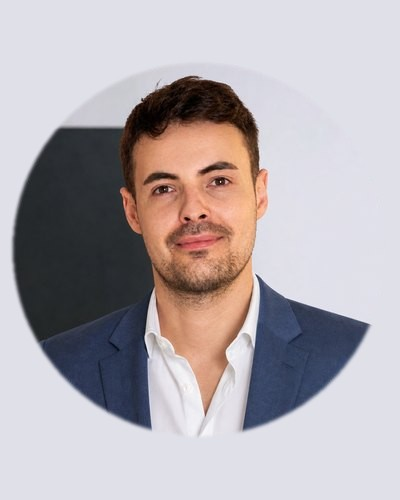
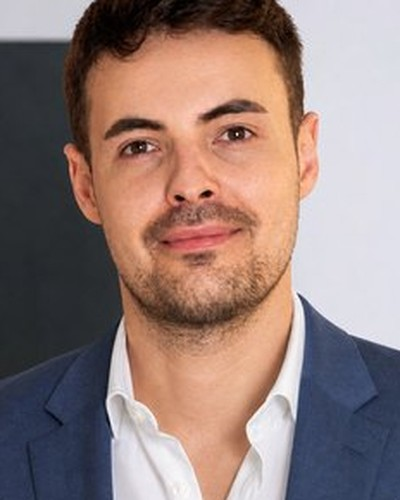
Porte 3 : plus de contour au retour du hall ; photo cadrée pleine vitre, sans cercle

diff --git a/ar/index.html b/ar/index.html
@@ -15,7 +15,7 @@
 <link rel="alternate" hreflang="ar" href="https://erjb-web.github.io/ar/">
 <link rel="alternate" hreflang="x-default" href="https://erjb-web.github.io/">
 <link rel="icon" href="../assets/favicon.svg" type="image/svg+xml">
-<link rel="stylesheet" href="../assets/site.css?v=1980aaa260">
+<link rel="stylesheet" href="../assets/site.css?v=1a9c90b006">
 <meta property="og:type" content="profile">
 <meta property="og:title" content="Éric Bernier">
 <meta property="og:description" content="Éric Bernier، طالب دكتوراه في الصحة العامة (الأنظمة والمنظمات والسياسات الصحية) في ESPUM، وقانوني ورائد أعمال ومربٍّ متخصص. يتناول بحثه الاستجابة المشتركة بين القطاعات للاحتياجات الاجتماعية المعقدة في الرعاية الصحية الأولية.">
@@ -72,7 +72,7 @@
 <span class="baie" aria-hidden="true"><span class="ouverture"><span class="apercu">دخول</span><span class="battant"><span class="vignette" style="background-image:url(../assets/portes/expertise.jpg?v=eb3de103a6)"></span><span class="poignee"></span></span></span></span>
 <span class="porte-texte" aria-hidden="true"><span class="plaque"><span class="num">02</span>نقل المعارف والتنفيذ</span><span class="legende">التنفيذ والمفاهيم الأساسية والتدريس والتبسيط العلمي والأدوات الرقمية</span><span class="sous-portes"><span data-sous="implantation" style="--c1:#a0663b">التنفيذ</span><span data-sous="notions" style="--c1:#7a4f9a">مفاهيم أساسية</span><span data-sous="transmission" style="--c1:#5f7f35">التدريس والتبسيط</span><span data-sous="outils" style="--c1:#2f3f7a">الأدوات الرقمية</span></span><span class="entrer">دخول ←</span></span>
 </button><button class="porte" type="button" data-salle="parcours" data-sections="biographie parcours valeurs" data-titre="المسار" style="--c1:#7a4a8c;--c2:#553263" aria-label="03. المسار: السيرة والخبرات والقيم">
-<span class="baie" aria-hidden="true"><span class="ouverture"><span class="apercu">دخول</span><span class="battant"><span class="vignette" style="background-image:url(../assets/portes/biographie.jpg?v=c65e9c255b)"></span><span class="poignee"></span></span></span></span>
+<span class="baie" aria-hidden="true"><span class="ouverture"><span class="apercu">دخول</span><span class="battant"><span class="vignette" style="background-image:url(../assets/portes/biographie.jpg?v=76230af68d)"></span><span class="poignee"></span></span></span></span>
 <span class="porte-texte" aria-hidden="true"><span class="plaque"><span class="num">03</span>المسار</span><span class="legende">السيرة والخبرات والقيم</span><span class="sous-portes"><span data-sous="biographie" style="--c1:#2f6f86">السيرة</span><span data-sous="parcours" style="--c1:#9a7448">المسار</span><span data-sous="valeurs" style="--c1:#7a5a8c">القيم</span></span><span class="entrer">دخول ←</span></span>
 </button><button class="porte" type="button" data-salle="engagements" data-sections="representation communaute distinctions citoyen loisirs" data-titre="الانخراط" style="--c1:#a8343f;--c2:#76232b" aria-label="04. الانخراط: التمثيل، البحث، الجوائز، الترفيه">
 <span class="baie" aria-hidden="true"><span class="ouverture"><span class="apercu">دخول</span><span class="battant"><span class="vignette" style="background-image:url(../assets/portes/engagements.jpg?v=071d2e7732)"></span><span class="poignee"></span></span></span></span>
@@ -326,7 +326,7 @@
 </div>
 </section>
 <section class="section" id="biographie" data-salle="biographie" data-titre="السيرة">
-<div class="section-contenu" data-numero="03.1" data-mini="../assets/portes-mini/biographie.jpg?v=058f9e50bf">
+<div class="section-contenu" data-numero="03.1" data-mini="../assets/portes-mini/biographie.jpg?v=0296b29590">
 <div class="bandeau" style="--c1:#2f6f86;background-image:var(--degrade),url(../assets/bandeaux/biographie.jpg?v=3baa45be25)" role="img" aria-label="السيرة"><div class="bandeau-texte"><span class="bandeau-num">03.1</span><span class="bandeau-titre">السيرة</span><span class="bandeau-legende">من التجارب الإنسانية إلى التحولات الجماعية</span></div></div>
 <div class="section-corps pleine">
 <div class="colonne-texte">

diff --git a/es/index.html b/es/index.html
@@ -15,7 +15,7 @@
 <link rel="alternate" hreflang="ar" href="https://erjb-web.github.io/ar/">
 <link rel="alternate" hreflang="x-default" href="https://erjb-web.github.io/">
 <link rel="icon" href="../assets/favicon.svg" type="image/svg+xml">
-<link rel="stylesheet" href="../assets/site.css?v=1980aaa260">
+<link rel="stylesheet" href="../assets/site.css?v=1a9c90b006">
 <meta property="og:type" content="profile">
 <meta property="og:title" content="Éric Bernier">
 <meta property="og:description" content="Éric Bernier, doctorando en salud pública (sistemas, organizaciones y políticas de salud) en la ESPUM, Université de Montréal, jurista, emprendedor y educador especializado. Investigación sobre la respuesta intersectorial a las necesidades sociales complejas en atención primaria.">
@@ -72,7 +72,7 @@
 <span class="baie" aria-hidden="true"><span class="ouverture"><span class="apercu">Entrar</span><span class="battant"><span class="vignette" style="background-image:url(../assets/portes/expertise.jpg?v=eb3de103a6)"></span><span class="poignee"></span></span></span></span>
 <span class="porte-texte" aria-hidden="true"><span class="plaque"><span class="num">02</span>Transferencia de conocimientos e implementación</span><span class="legende">Implementación, nociones clave, docencia, divulgación y herramientas digitales</span><span class="sous-portes"><span data-sous="implantation" style="--c1:#a0663b">Implementación</span><span data-sous="notions" style="--c1:#7a4f9a">Nociones clave</span><span data-sous="transmission" style="--c1:#5f7f35">Enseñar y divulgar</span><span data-sous="outils" style="--c1:#2f3f7a">Herramientas digitales</span></span><span class="entrer">Entrar →</span></span>
 </button><button class="porte" type="button" data-salle="parcours" data-sections="biographie parcours valeurs" data-titre="Trayectoria" style="--c1:#7a4a8c;--c2:#553263" aria-label="03. Trayectoria: Biografía, experiencia y valores">
-<span class="baie" aria-hidden="true"><span class="ouverture"><span class="apercu">Entrar</span><span class="battant"><span class="vignette" style="background-image:url(../assets/portes/biographie.jpg?v=c65e9c255b)"></span><span class="poignee"></span></span></span></span>
+<span class="baie" aria-hidden="true"><span class="ouverture"><span class="apercu">Entrar</span><span class="battant"><span class="vignette" style="background-image:url(../assets/portes/biographie.jpg?v=76230af68d)"></span><span class="poignee"></span></span></span></span>
 <span class="porte-texte" aria-hidden="true"><span class="plaque"><span class="num">03</span>Trayectoria</span><span class="legende">Biografía, experiencia y valores</span><span class="sous-portes"><span data-sous="biographie" style="--c1:#2f6f86">Biografía</span><span data-sous="parcours" style="--c1:#9a7448">La trayectoria</span><span data-sous="valeurs" style="--c1:#7a5a8c">Valores</span></span><span class="entrer">Entrar →</span></span>
 </button><button class="porte" type="button" data-salle="engagements" data-sections="representation communaute distinctions citoyen loisirs" data-titre="Compromisos" style="--c1:#a8343f;--c2:#76232b" aria-label="04. Compromisos: Representación, investigación, distinciones, ocio">
 <span class="baie" aria-hidden="true"><span class="ouverture"><span class="apercu">Entrar</span><span class="battant"><span class="vignette" style="background-image:url(../assets/portes/engagements.jpg?v=071d2e7732)"></span><span class="poignee"></span></span></span></span>
@@ -326,7 +326,7 @@
 </div>
 </section>
 <section class="section" id="biographie" data-salle="biographie" data-titre="Biografía">
-<div class="section-contenu" data-numero="03.1" data-mini="../assets/portes-mini/biographie.jpg?v=058f9e50bf">
+<div class="section-contenu" data-numero="03.1" data-mini="../assets/portes-mini/biographie.jpg?v=0296b29590">
 <div class="bandeau" style="--c1:#2f6f86;background-image:var(--degrade),url(../assets/bandeaux/biographie.jpg?v=3baa45be25)" role="img" aria-label="Biografía"><div class="bandeau-texte"><span class="bandeau-num">03.1</span><span class="bandeau-titre">Biografía</span><span class="bandeau-legende">De las experiencias humanas a las transformaciones colectivas</span></div></div>
 <div class="section-corps pleine">
 <div class="colonne-texte">

diff --git a/index.html b/index.html
@@ -15,7 +15,7 @@
 <link rel="alternate" hreflang="ar" href="https://erjb-web.github.io/ar/">
 <link rel="alternate" hreflang="x-default" href="https://erjb-web.github.io/">
 <link rel="icon" href="assets/favicon.svg" type="image/svg+xml">
-<link rel="stylesheet" href="assets/site.css?v=1980aaa260">
+<link rel="stylesheet" href="assets/site.css?v=1a9c90b006">
 <meta property="og:type" content="profile">
 <meta property="og:title" content="Éric Bernier">
 <meta property="og:description" content="Éric Bernier, doctorant en santé publique (systèmes, organisations et politiques de santé) à l’ESPUM, juriste, entrepreneur et éducateur spécialisé. Recherche sur la réponse intersectorielle aux besoins sociaux complexes en soins primaires.">
@@ -72,7 +72,7 @@
 <span class="baie" aria-hidden="true"><span class="ouverture"><span class="apercu">Entrer</span><span class="battant"><span class="vignette" style="background-image:url(assets/portes/expertise.jpg?v=eb3de103a6)"></span><span class="poignee"></span></span></span></span>
 <span class="porte-texte" aria-hidden="true"><span class="plaque"><span class="num">02</span>Transfert de connaissances et implantation</span><span class="legende">Implantation, notions clés, enseignement, vulgarisation et outils numériques</span><span class="sous-portes"><span data-sous="implantation" style="--c1:#a0663b">Implantation</span><span data-sous="notions" style="--c1:#7a4f9a">Notions clés</span><span data-sous="transmission" style="--c1:#5f7f35">Enseigner et vulgariser</span><span data-sous="outils" style="--c1:#2f3f7a">Outils numériques</span></span><span class="entrer">Entrer →</span></span>
 </button><button class="porte" type="button" data-salle="parcours" data-sections="biographie parcours valeurs" data-titre="Parcours" style="--c1:#7a4a8c;--c2:#553263" aria-label="03. Parcours : Biographie, expériences et valeurs">
-<span class="baie" aria-hidden="true"><span class="ouverture"><span class="apercu">Entrer</span><span class="battant"><span class="vignette" style="background-image:url(assets/portes/biographie.jpg?v=c65e9c255b)"></span><span class="poignee"></span></span></span></span>
+<span class="baie" aria-hidden="true"><span class="ouverture"><span class="apercu">Entrer</span><span class="battant"><span class="vignette" style="background-image:url(assets/portes/biographie.jpg?v=76230af68d)"></span><span class="poignee"></span></span></span></span>
 <span class="porte-texte" aria-hidden="true"><span class="plaque"><span class="num">03</span>Parcours</span><span class="legende">Biographie, expériences et valeurs</span><span class="sous-portes"><span data-sous="biographie" style="--c1:#2f6f86">Biographie</span><span data-sous="parcours" style="--c1:#9a7448">Le parcours</span><span data-sous="valeurs" style="--c1:#7a5a8c">Valeurs</span></span><span class="entrer">Entrer →</span></span>
 </button><button class="porte" type="button" data-salle="engagements" data-sections="representation communaute distinctions citoyen loisirs" data-titre="Engagements" style="--c1:#a8343f;--c2:#76232b" aria-label="04. Engagements : Représentation, recherche, distinctions, loisirs">
 <span class="baie" aria-hidden="true"><span class="ouverture"><span class="apercu">Entrer</span><span class="battant"><span class="vignette" style="background-image:url(assets/portes/engagements.jpg?v=071d2e7732)"></span><span class="poignee"></span></span></span></span>
@@ -326,7 +326,7 @@
 </div>
 </section>
 <section class="section" id="biographie" data-salle="biographie" data-titre="Biographie">
-<div class="section-contenu" data-numero="03.1" data-mini="assets/portes-mini/biographie.jpg?v=058f9e50bf">
+<div class="section-contenu" data-numero="03.1" data-mini="assets/portes-mini/biographie.jpg?v=0296b29590">
 <div class="bandeau" style="--c1:#2f6f86;background-image:var(--degrade),url(assets/bandeaux/biographie.jpg?v=3baa45be25)" role="img" aria-label="Biographie"><div class="bandeau-texte"><span class="bandeau-num">03.1</span><span class="bandeau-titre">Biographie</span><span class="bandeau-legende">Des expériences humaines aux transformations collectives</span></div></div>
 <div class="section-corps pleine">
 <div class="colonne-texte">

diff --git a/en/index.html b/en/index.html
@@ -15,7 +15,7 @@
 <link rel="alternate" hreflang="ar" href="https://erjb-web.github.io/ar/">
 <link rel="alternate" hreflang="x-default" href="https://erjb-web.github.io/">
 <link rel="icon" href="../assets/favicon.svg" type="image/svg+xml">
-<link rel="stylesheet" href="../assets/site.css?v=1980aaa260">
+<link rel="stylesheet" href="../assets/site.css?v=1a9c90b006">
 <meta property="og:type" content="profile">
 <meta property="og:title" content="Éric Bernier">
 <meta property="og:description" content="Éric Bernier, PhD student in public health (health systems, organisations and policy) at ESPUM, Université de Montréal, trained in law and special needs education, and an entrepreneur. Research on intersectoral responses to complex social needs in primary care.">
@@ -72,7 +72,7 @@
 <span class="baie" aria-hidden="true"><span class="ouverture"><span class="apercu">Step in</span><span class="battant"><span class="vignette" style="background-image:url(../assets/portes/expertise.jpg?v=eb3de103a6)"></span><span class="poignee"></span></span></span></span>
 <span class="porte-texte" aria-hidden="true"><span class="plaque"><span class="num">02</span>Knowledge transfer and implementation</span><span class="legende">Implementation, key concepts, teaching, outreach and digital tools</span><span class="sous-portes"><span data-sous="implantation" style="--c1:#a0663b">Implementation</span><span data-sous="notions" style="--c1:#7a4f9a">Key concepts</span><span data-sous="transmission" style="--c1:#5f7f35">Teaching and outreach</span><span data-sous="outils" style="--c1:#2f3f7a">Digital tools</span></span><span class="entrer">Step in →</span></span>
 </button><button class="porte" type="button" data-salle="parcours" data-sections="biographie parcours valeurs" data-titre="Background" style="--c1:#7a4a8c;--c2:#553263" aria-label="03. Background: Biography, experience and values">
-<span class="baie" aria-hidden="true"><span class="ouverture"><span class="apercu">Step in</span><span class="battant"><span class="vignette" style="background-image:url(../assets/portes/biographie.jpg?v=c65e9c255b)"></span><span class="poignee"></span></span></span></span>
+<span class="baie" aria-hidden="true"><span class="ouverture"><span class="apercu">Step in</span><span class="battant"><span class="vignette" style="background-image:url(../assets/portes/biographie.jpg?v=76230af68d)"></span><span class="poignee"></span></span></span></span>
 <span class="porte-texte" aria-hidden="true"><span class="plaque"><span class="num">03</span>Background</span><span class="legende">Biography, experience and values</span><span class="sous-portes"><span data-sous="biographie" style="--c1:#2f6f86">Biography</span><span data-sous="parcours" style="--c1:#9a7448">Background</span><span data-sous="valeurs" style="--c1:#7a5a8c">Values</span></span><span class="entrer">Step in →</span></span>
 </button><button class="porte" type="button" data-salle="engagements" data-sections="representation communaute distinctions citoyen loisirs" data-titre="Engagement" style="--c1:#a8343f;--c2:#76232b" aria-label="04. Engagement: Representation, research, awards, leisure">
 <span class="baie" aria-hidden="true"><span class="ouverture"><span class="apercu">Step in</span><span class="battant"><span class="vignette" style="background-image:url(../assets/portes/engagements.jpg?v=071d2e7732)"></span><span class="poignee"></span></span></span></span>
@@ -326,7 +326,7 @@
 </div>
 </section>
 <section class="section" id="biographie" data-salle="biographie" data-titre="Biography">
-<div class="section-contenu" data-numero="03.1" data-mini="../assets/portes-mini/biographie.jpg?v=058f9e50bf">
+<div class="section-contenu" data-numero="03.1" data-mini="../assets/portes-mini/biographie.jpg?v=0296b29590">
 <div class="bandeau" style="--c1:#2f6f86;background-image:var(--degrade),url(../assets/bandeaux/biographie.jpg?v=3baa45be25)" role="img" aria-label="Biography"><div class="bandeau-texte"><span class="bandeau-num">03.1</span><span class="bandeau-titre">Biography</span><span class="bandeau-legende">From human experiences to collective change</span></div></div>
 <div class="section-corps pleine">
 <div class="colonne-texte">

diff --git a/zh/index.html b/zh/index.html
@@ -15,7 +15,7 @@
 <link rel="alternate" hreflang="ar" href="https://erjb-web.github.io/ar/">
 <link rel="alternate" hreflang="x-default" href="https://erjb-web.github.io/">
 <link rel="icon" href="../assets/favicon.svg" type="image/svg+xml">
-<link rel="stylesheet" href="../assets/site.css?v=1980aaa260">
+<link rel="stylesheet" href="../assets/site.css?v=1a9c90b006">
 <meta property="og:type" content="profile">
 <meta property="og:title" content="Éric Bernier">
 <meta property="og:description" content="Éric Bernier，ESPUM（蒙特利尔大学公共卫生学院）公共卫生博士研究生（卫生系统、组织与政策方向），法律专业人士，创业者，特殊教育工作者。研究方向：初级保健中针对复杂社会需求的跨部门应对。">
@@ -72,7 +72,7 @@
 <span class="baie" aria-hidden="true"><span class="ouverture"><span class="apercu">进入</span><span class="battant"><span class="vignette" style="background-image:url(../assets/portes/expertise.jpg?v=eb3de103a6)"></span><span class="poignee"></span></span></span></span>
 <span class="porte-texte" aria-hidden="true"><span class="plaque"><span class="num">02</span>知识转化与实施</span><span class="legende">实施、关键概念、教学、科普与数字工具</span><span class="sous-portes"><span data-sous="implantation" style="--c1:#a0663b">实施</span><span data-sous="notions" style="--c1:#7a4f9a">关键概念</span><span data-sous="transmission" style="--c1:#5f7f35">教学与科普</span><span data-sous="outils" style="--c1:#2f3f7a">数字工具</span></span><span class="entrer">进入 →</span></span>
 </button><button class="porte" type="button" data-salle="parcours" data-sections="biographie parcours valeurs" data-titre="经历" style="--c1:#7a4a8c;--c2:#553263" aria-label="03. 经历： 个人简介、经历与价值观">
-<span class="baie" aria-hidden="true"><span class="ouverture"><span class="apercu">进入</span><span class="battant"><span class="vignette" style="background-image:url(../assets/portes/biographie.jpg?v=c65e9c255b)"></span><span class="poignee"></span></span></span></span>
+<span class="baie" aria-hidden="true"><span class="ouverture"><span class="apercu">进入</span><span class="battant"><span class="vignette" style="background-image:url(../assets/portes/biographie.jpg?v=76230af68d)"></span><span class="poignee"></span></span></span></span>
 <span class="porte-texte" aria-hidden="true"><span class="plaque"><span class="num">03</span>经历</span><span class="legende">个人简介、经历与价值观</span><span class="sous-portes"><span data-sous="biographie" style="--c1:#2f6f86">个人历程</span><span data-sous="parcours" style="--c1:#9a7448">履历</span><span data-sous="valeurs" style="--c1:#7a5a8c">价值观</span></span><span class="entrer">进入 →</span></span>
 </button><button class="porte" type="button" data-salle="engagements" data-sections="representation communaute distinctions citoyen loisirs" data-titre="社会参与" style="--c1:#a8343f;--c2:#76232b" aria-label="04. 社会参与： 代表工作、研究、荣誉与爱好">
 <span class="baie" aria-hidden="true"><span class="ouverture"><span class="apercu">进入</span><span class="battant"><span class="vignette" style="background-image:url(../assets/portes/engagements.jpg?v=071d2e7732)"></span><span class="poignee"></span></span></span></span>
@@ -326,7 +326,7 @@
 </div>
 </section>
 <section class="section" id="biographie" data-salle="biographie" data-titre="个人历程">
-<div class="section-contenu" data-numero="03.1" data-mini="../assets/portes-mini/biographie.jpg?v=058f9e50bf">
+<div class="section-contenu" data-numero="03.1" data-mini="../assets/portes-mini/biographie.jpg?v=0296b29590">
 <div class="bandeau" style="--c1:#2f6f86;background-image:var(--degrade),url(../assets/bandeaux/biographie.jpg?v=3baa45be25)" role="img" aria-label="个人历程"><div class="bandeau-texte"><span class="bandeau-num">03.1</span><span class="bandeau-titre">个人历程</span><span class="bandeau-legende">从个体经验到集体变革</span></div></div>
 <div class="section-corps pleine">
 <div class="colonne-texte">

diff --git a/assets/site.css b/assets/site.css
@@ -1109,3 +1109,4 @@ html.hc .bandeau,html.lv .bandeau{--degrade:linear-gradient(100deg,var(--c1) 0%,
 .poignee::after{display:block;content:"";position:absolute;right:50%;top:35%;width:340%;height:26%;min-height:2px;transform:translateY(-50%) rotate(0deg);transform-origin:100% 50%;border-radius:2px;background:linear-gradient(180deg,#f1f3f4 0%,#aeb7bb 55%,#6c767a 100%);box-shadow:0 1px 1.5px rgba(15,30,40,.35);transition:transform .3s var(--ease);z-index:1}
 .porte:hover .poignee::after,.porte:focus-visible .poignee::after,.porte.ouverte .poignee::after,.onglet-salle:hover .poignee::after,.onglet-salle.ouverte .poignee::after{transform:translateY(-50%) rotate(-40deg)}
 .poignee::after{width:280%}
+.porte:focus,.porte:focus-visible{outline:none}

diff --git a/falc/index.html b/falc/index.html
@@ -8,7 +8,7 @@
 <meta name="description" content="Qui est Éric Bernier, son travail et sa recherche, en facile à lire et à comprendre (FALC).">
 <link rel="canonical" href="https://erjb-web.github.io/falc/">
 <link rel="icon" href="../assets/favicon.svg" type="image/svg+xml">
-<link rel="stylesheet" href="../assets/site.css?v=1980aaa260">
+<link rel="stylesheet" href="../assets/site.css?v=1a9c90b006">
 <script src="../assets/site.js?v=920b719450" defer></script>
 </head>
 <body class="page-abregee">

diff --git a/innu/index.html b/innu/index.html
@@ -8,7 +8,7 @@
 <meta name="description" content="Éric Bernier, doctorant en santé publique · PhD student in public health">
 <link rel="canonical" href="https://erjb-web.github.io/innu/">
 <link rel="icon" href="../assets/favicon.svg" type="image/svg+xml">
-<link rel="stylesheet" href="../assets/site.css?v=1980aaa260">
+<link rel="stylesheet" href="../assets/site.css?v=1a9c90b006">
 <script src="../assets/site.js?v=920b719450" defer></script>
 </head>
 <body class="page-abregee">

diff --git a/iu/index.html b/iu/index.html
@@ -8,7 +8,7 @@
 <meta name="description" content="Éric Bernier, doctorant en santé publique · PhD student in public health">
 <link rel="canonical" href="https://erjb-web.github.io/iu/">
 <link rel="icon" href="../assets/favicon.svg" type="image/svg+xml">
-<link rel="stylesheet" href="../assets/site.css?v=1980aaa260">
+<link rel="stylesheet" href="../assets/site.css?v=1a9c90b006">
 <script src="../assets/site.js?v=920b719450" defer></script>
 </head>
 <body class="page-abregee">
